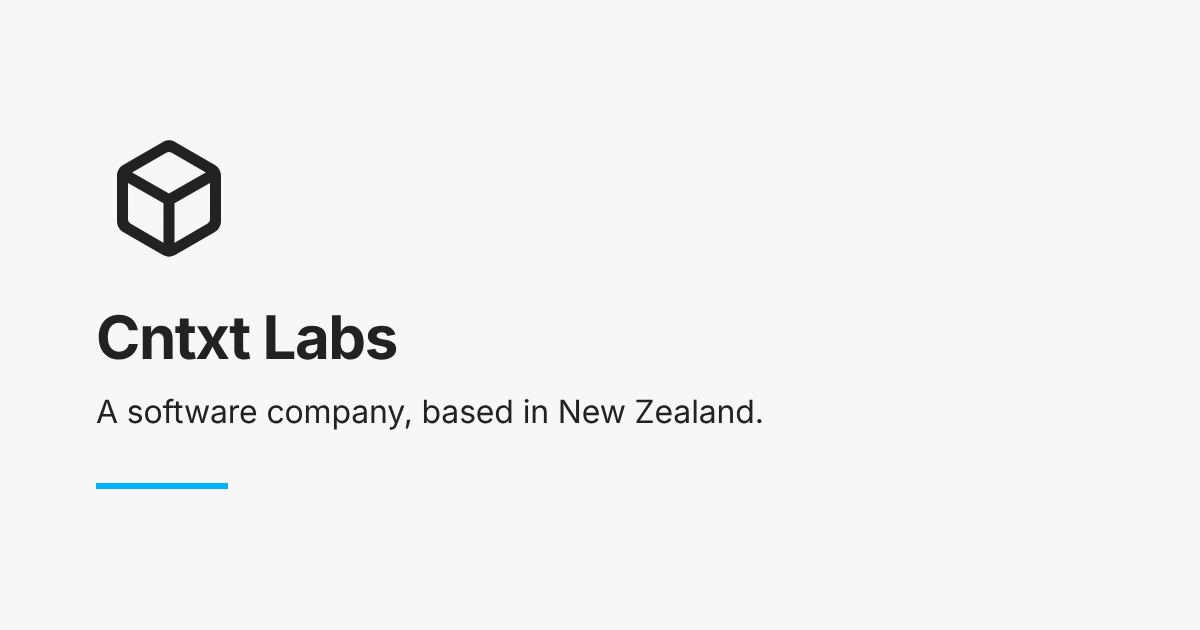
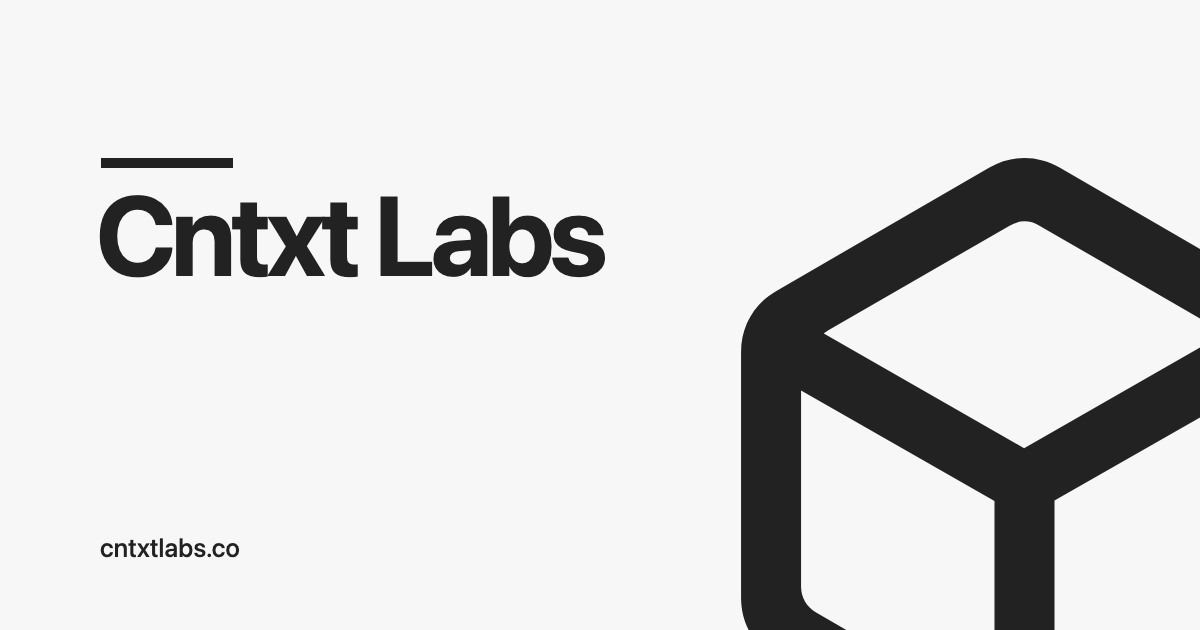
New social preview card
A black line over "Cntxt Labs", the domain bottom left, and the cube mark
large off the bottom right corner. Alt text to match.

diff --git a/index.html b/index.html
@@ -22,13 +22,13 @@
 	<meta property="og:image:type" content="image/png">
 	<meta property="og:image:width" content="1200">
 	<meta property="og:image:height" content="630">
-	<meta property="og:image:alt" content="Cntxt Labs, a software company based in New Zealand">
+	<meta property="og:image:alt" content="Cntxt Labs, with its cube mark">
 
 	<meta name="twitter:card" content="summary_large_image">
 	<meta name="twitter:title" content="Cntxt Labs">
 	<meta name="twitter:description" content="Cntxt Labs is a small software company in New Zealand. We design and build apps for Apple platforms, the web and Android.">
 	<meta name="twitter:image" content="https://cntxtlabs.co/og.png">
-	<meta name="twitter:image:alt" content="Cntxt Labs, a software company based in New Zealand">
+	<meta name="twitter:image:alt" content="Cntxt Labs, with its cube mark">
 
 	<link rel="alternate" type="text/markdown" href="https://cntxtlabs.co/llms.txt" title="llms.txt: this site in one file, for language models">
 	<link rel="icon" href="favicon.svg" type="image/svg+xml">
